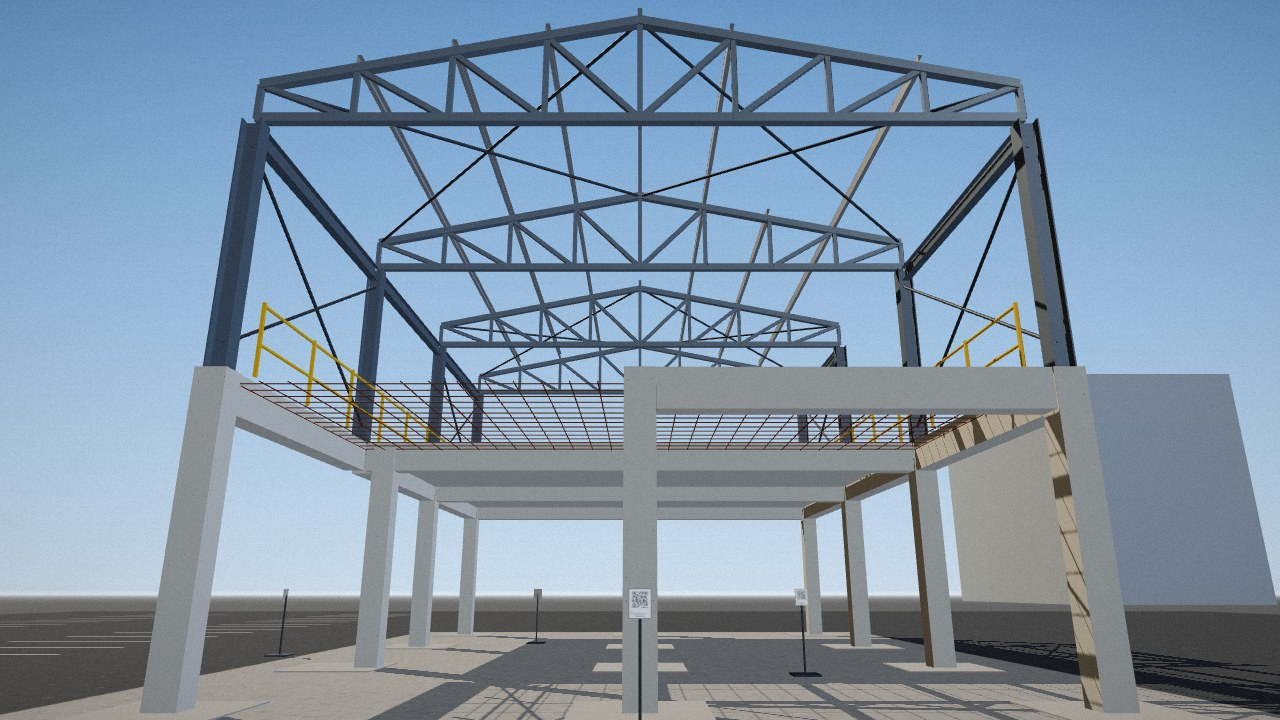
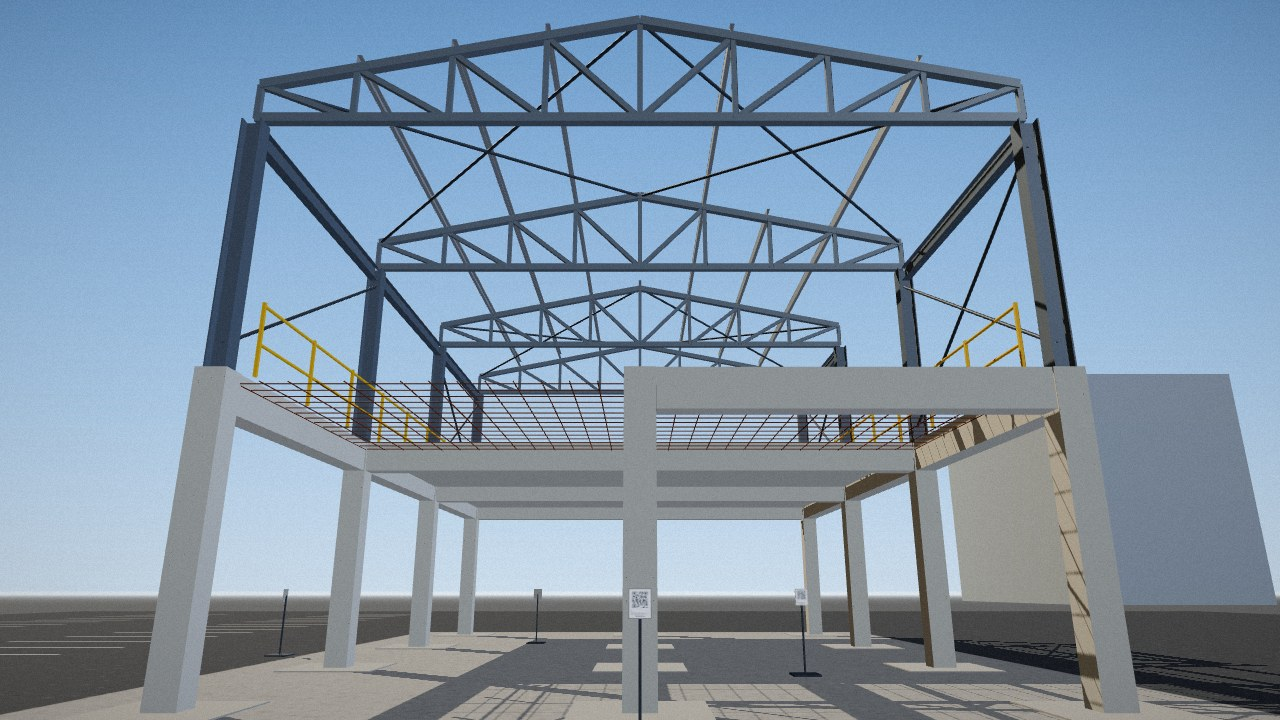
feat(web): the demo scene's ten planted defects are ones its QR spots can show; the cluttered site's things stand around the work
- Two defects a single photo rarely shows (column C1 moved straight away from P1, beam C2-D2 in the slab's shade)
  give way to a wall brace seen from P2 and a purlin in the middle of P4's view.
- The scorecard does not score a defect at a spot that cannot show it (column C2 from P3: only its top is in frame).
- The cluttered site: pallets, props and people stand between the columns' sight lines, not in front of marked
  elements; the towers stand clear of the roof views; plywood lies flat; the tarp covers a pallet.
- The start page no longer carries measured figures: they were for the earlier, harder set.
- The ready-made sample views are re-rendered.

diff --git a/web/src/sim/clutter.ts b/web/src/sim/clutter.ts
@@ -29,29 +29,30 @@ export interface ClutterItem {
  * Otherwise things are where a site would leave them: they may well hide part of an element, as on a real site.
  */
 export const CLUTTER: readonly ClutterItem[] = [
-  // Ground floor, bay B-C between rows 1 and 2: what P1 and P2 look into.
-  { what: 'pallet', at: [7.3, 2.6], r: 0.8, rot: 0.2, n: 0.9 },
-  { what: 'bags', at: [10.8, 3.2], r: 0.6, rot: 0.3 },
-  { what: 'barrow', at: [9.6, 5.2], r: 0.8, rot: 2.2 },
-  { what: 'worker', at: [8.4, 4.0], r: 0.4, rot: 0.6 },
-  ...([[7.5, 1.4], [10.5, 1.4], [7.5, 4.4], [10.5, 4.4], [1.5, 1.5], [4.5, 1.3], [1.5, 4.5], [4.5, 4.7]] as const)
+  // Ground floor, bay B-C between rows 1 and 2: what P1 and P2 look into. Things stand in the open middle of each
+  // opening view, between the columns' sight lines, not in front of an element the check marks.
+  { what: 'pallet', at: [9.6, 3.4], r: 0.8, rot: 0.2, n: 0.9 },
+  { what: 'bags', at: [9.9, 2.0], r: 0.6, rot: 0.3 },
+  { what: 'barrow', at: [9.0, 6.4], r: 0.8, rot: 2.2 },
+  { what: 'worker', at: [8.4, 3.0], r: 0.4, rot: 0.6 },
+  ...([[8.3, 1.6], [8.3, 4.4], [1.5, 1.5], [4.5, 1.3], [1.5, 4.5], [4.5, 4.7]] as const)
     .map(([x, y]): ClutterItem => ({ what: 'prop', at: [x, y], r: 0.15 })),
   { what: 'timber', at: [1.2, 9.0], r: 1.6, rot: 0.05 },
-  // The open bay C-D.
-  { what: 'pallet', at: [15.6, 2.4], r: 0.8, rot: -0.15, n: 0.7 },
-  { what: 'mixer', at: [14.2, 4.6], r: 0.8, rot: 0.5 },
-  { what: 'rebar', at: [15.4, 0.9], r: 0.5 },
-  { what: 'cage', at: [16.9, 7.2], r: 0.4 },
-  // Outside: cones by the south entrance, tape posts across the open bay, a scaffold tower on the east side.
-  { what: 'cone', at: [7.2, -1.3], r: 0.2 },
-  { what: 'cone', at: [10.8, -1.3], r: 0.2 },
+  // The open bay C-D: down its middle strip.
+  { what: 'pallet', at: [15.8, 2.3], r: 0.8, rot: -0.15, n: 0.7 },
+  { what: 'mixer', at: [13.6, 3.6], r: 0.8, rot: 0.5 },
+  { what: 'rebar', at: [16.0, 4.4], r: 0.5 },
+  { what: 'cage', at: [13.2, 10.6], r: 0.4 },
+  // Outside: cones by the south entrance, tape posts across the open bay, a scaffold tower at the north-east corner.
+  { what: 'cone', at: [8.0, -1.6], r: 0.2 },
+  { what: 'cone', at: [10.0, -1.6], r: 0.2 },
   { what: 'cone', at: [13.3, 5.6], r: 0.2 },
   { what: 'post', at: [12.4, -0.5], r: 0.1 },
   { what: 'post', at: [17.6, -0.5], r: 0.1 },
-  { what: 'tower', at: [19.3, 8.8], r: 1.2, n: 3 },
-  // Up on the level 1 slab: a short tower for the steel fixers, with someone on it.
-  { what: 'tower', at: [10.6, 9.5], r: 1.1, z: 4.5, n: 1 },
-  { what: 'worker', at: [10.6, 9.3], r: 0.4, z: 6.56, rot: 1.6 },
+  { what: 'tower', at: [19.3, 11.6], r: 1.2, n: 3 },
+  // Up on the level 1 slab, back from its edge: a short tower for the steel fixers, with someone on it.
+  { what: 'tower', at: [7.5, 9.5], r: 1.1, z: 4.5, n: 1 },
+  { what: 'worker', at: [7.5, 9.3], r: 0.4, z: 6.56, rot: 1.6 },
 ]
 
 const UP_Y = new Vector3(0, 1, 0)
@@ -309,29 +310,24 @@ export function addClutter(scene: Object3D, deviations: readonly Deviation[] = S
       for (let layer = 0; layer < 3; layer++) {
         for (let i = 0; i < 4; i++) box(g, 0.2, 3, 0.05, M.timber, -0.33 + i * 0.22, (rand() - 0.5) * 0.3, layer * 0.055, (rand() - 0.5) * 0.03)
       }
-      // A few sheets of plywood leaning on column B3.
-      for (let i = 0; i < 3; i++) {
-        const sheet = shade(new Mesh(new BoxGeometry(1.22, 0.018, 2.44), M.ply))
-        sheet.rotation.x = -0.22
-        sheet.position.set(6 + i * 0.05, 11.49 - i * 0.03, 1.19)
-        root.add(sheet)
-      }
+      // A few sheets of plywood stacked flat beside the timber.
+      for (let i = 0; i < 4; i++) box(g, 1.22, 2.44, 0.018, M.ply, 1.5 + (rand() - 0.5) * 0.06, (rand() - 0.5) * 0.1, i * 0.02)
     },
     rebar: ({ at: [x, y] }) => {
       for (const s of [-1.5, 1.5]) box(root, 0.1, 0.6, 0.08, M.timber, x + s, y, 0)
       for (let i = 0; i < 14; i++) {
         const dy = (rand() - 0.5) * 0.3
         const h = 0.095 + rand() * 0.07
-        tube(root, [x - 2.5 + rand() * 0.2, y + dy, h], [x + 2.5 + rand() * 0.2, y + dy, h], 0.012, M.rebar)
+        tube(root, [x - 2 + rand() * 0.2, y + dy, h], [x + 2 + rand() * 0.2, y + dy, h], 0.012, M.rebar)
       }
     },
-    // A spare column cage lying on bearers, running north from `at`.
+    // A spare column cage lying on bearers, running east from `at`.
     cage: ({ at: [x, y] }) => {
       const [len, half, z0] = [4, 0.16, 0.1]
-      for (const s of [0.6, 3.4]) box(root, 0.7, 0.1, 0.08, M.timber, x, y + s, 0)
-      for (const sx of [-half, half]) for (const sz of [0, half * 2]) tube(root, [x + sx, y, z0 + sz], [x + sx, y + len, z0 + sz], 0.012, M.rebar)
+      for (const s of [0.6, 3.4]) box(root, 0.1, 0.7, 0.08, M.timber, x + s, y, 0)
+      for (const sy of [-half, half]) for (const sz of [0, half * 2]) tube(root, [x, y + sy, z0 + sz], [x + len, y + sy, z0 + sz], 0.012, M.rebar)
       for (let t = 0.1; t < len; t += 0.3) {
-        const corners: V3[] = [[x - half, y + t, z0], [x + half, y + t, z0], [x + half, y + t, z0 + half * 2], [x - half, y + t, z0 + half * 2]]
+        const corners: V3[] = [[x + t, y - half, z0], [x + t, y + half, z0], [x + t, y + half, z0 + half * 2], [x + t, y - half, z0 + half * 2]]
         corners.forEach((c, i) => tube(root, c, corners[(i + 1) % 4], 0.006, M.rebar))
       }
     },
@@ -360,7 +356,7 @@ export function addClutter(scene: Object3D, deviations: readonly Deviation[] = S
     root.add(shade(ribbon))
   }
 
-  // A safety banner tied between columns D1 and D2, and a tarp hung over the slab edge on line C.
+  // A safety banner tied between columns D1 and D2.
   const banner = shade(new Mesh(new PlaneGeometry(2.6, 1), new MeshStandardMaterial({ map: bannerTexture(), roughness: 0.8 })))
   banner.quaternion.setFromRotationMatrix(new Matrix4().makeBasis(new Vector3(0, 1, 0), UP_Z, new Vector3(1, 0, 0)))
   banner.position.set(18.24, 3, 2.8)
@@ -372,11 +368,7 @@ export function addClutter(scene: Object3D, deviations: readonly Deviation[] = S
     tube(root, [18.24, 1.7, z], [18.2, 0.23, z], 0.004, M.dark)
     tube(root, [18.24, 4.3, z], [18.2, 5.77, z], 0.004, M.dark)
   }
-  const tarp = shade(new Mesh(new PlaneGeometry(1.4, 1), M.tarp))
-  tarp.quaternion.copy(banner.quaternion)
-  tarp.position.set(12.03, 7.6, 4)
-  root.add(tarp)
-  box(root, 0.5, 1.4, 0.012, M.tarp, 11.78, 7.6, 4.5)
+  box(root, 1.3, 1.1, 0.02, M.tarp, 15.8, 2.3, 0.85, -0.15) // a tarp over the open bay's pallet
 
   // Stains on the ground and under the slab.
   const [oil, slurry, damp, rust] = ['24,22,20', '196,192,182', '52,50,46', '120,62,28']

diff --git a/web/src/sim/asBuilt.ts b/web/src/sim/asBuilt.ts
@@ -9,28 +9,34 @@ export type ViewpointId = 'P1' | 'P2' | 'P3' | 'P4'
  * One deviation of the as-built from the design; `featuredAt` is the QR spot whose opening view shows it. A shifted
  * concrete column takes its rebar cage with it (`alsoMoves`), as it would on site.
  */
-export type Deviation =
+export type Deviation = (
   | { element: string; kind: 'missing'; note?: string; featuredAt: ViewpointId }
   | { element: string; kind: 'shifted'; offsetM: [number, number, number]; alsoMoves?: string[]; featuredAt: ViewpointId }
+) & {
+  /** QR spots where too little of the element is in frame to judge it: its check there is not scored. */
+  notShownAt?: ViewpointId[]
+}
 
 /**
  * Realistic site defects, each big enough for a camera to resolve from its QR spot (thin bracing far away is not):
  * an uncast column, setting-out errors, the open bay's beams not cast, steel not erected, a missing guardrail.
  * Each spot opens with two or three of them in view (asBuilt.test.ts checks the framing).
+ * They are a demo scene, chosen to be visible from the QR spots: two earlier ones (a column moved straight away from P1,
+ * which one photo cannot show, and a beam in the slab's shade) went on 28 Nov. The harder set stays in our test logs.
  * The stands sit on grid lines, so a purlin or truss member in line with the stand hides behind a slab-mat bar:
  * choose members off that line (measured in the check's ID buffer: every one here gets a numbered mark).
  */
 export const SITE_AS_BUILT: readonly Deviation[] = [
-  { element: 'RC column C2', kind: 'missing', note: 'not cast yet: only its rebar cage stands', featuredAt: 'P1' },
+  { element: 'RC column C2', kind: 'missing', note: 'not cast yet: only its rebar cage stands', featuredAt: 'P1', notShownAt: ['P3'] },
   { element: 'RC column B2', kind: 'shifted', offsetM: [-0.6, 0, 0], alsoMoves: ['Column cage B2'], featuredAt: 'P1' },
-  { element: 'RC column C1', kind: 'shifted', offsetM: [0, 0.6, 0], alsoMoves: ['Column cage C1'], featuredAt: 'P2' },
-  { element: 'Beam C2-D2', kind: 'missing', note: 'not cast yet: the open bay is still to pour', featuredAt: 'P2' },
   { element: 'Beam D1-D2', kind: 'missing', note: 'not cast yet: the open bay is still to pour', featuredAt: 'P2' },
+  { element: 'Brace wall south C-D (1)', kind: 'missing', note: 'not installed yet', featuredAt: 'P2' },
   { element: 'Truss T3 diagonal 6', kind: 'missing', featuredAt: 'P3' },
   { element: 'Purlin P4 B-C', kind: 'missing', featuredAt: 'P3' },
   { element: 'Edge beam B3-C3', kind: 'missing', note: 'not erected yet', featuredAt: 'P3' },
   { element: 'Edge protection east', kind: 'missing', note: 'missing (a fall hazard at level 1)', featuredAt: 'P4' },
   { element: 'Purlin P6 C-D', kind: 'missing', featuredAt: 'P4' },
+  { element: 'Purlin P4 C-D', kind: 'missing', featuredAt: 'P4' },
 ]
 
 /** Compass word for a plan offset (IFC x east, y north, z up). */

diff --git a/web/src/sim/score.ts b/web/src/sim/score.ts
@@ -4,7 +4,7 @@
  */
 import type { Finding } from '../api/types'
 import { MAX_MARKS } from '../check/marks'
-import type { Deviation } from './asBuilt'
+import type { Deviation, ViewpointId } from './asBuilt'
 
 const DEVIATIONS = new Set<Finding['status']>(['missing', 'misplaced', 'different_from_design'])
 
@@ -23,10 +23,12 @@ export type Score = {
 /** The elements a planted defect changed: the element, plus what moved with it (a shifted column's cage). */
 const touched = (d: Deviation): string[] => [d.element, ...(d.kind === 'shifted' ? d.alsoMoves ?? [] : [])]
 
-export function scoreCheck(findings: readonly Finding[], planted: readonly Deviation[]): Score {
+/** `at`: the QR spot the check was made from. A defect that spot cannot show (`notShownAt`) is not scored there. */
+export function scoreCheck(findings: readonly Finding[], planted: readonly Deviation[], at?: ViewpointId): Score {
   const byName = new Map(findings.map((f) => [f.name, f]))
   const plantedNames = new Set(planted.flatMap(touched))
-  const inView = planted.filter((d) => byName.has(d.element)).map((d) => {
+  const shown = (d: Deviation) => byName.has(d.element) && !(at && d.notShownAt?.includes(at))
+  const inView = planted.filter(shown).map((d) => {
     const finding = byName.get(d.element)!
     const flagged = touched(d).some((n) => DEVIATIONS.has(byName.get(n)?.status ?? 'present_ok'))
     return { planted: d, finding, found: flagged }
@@ -34,7 +36,7 @@ export function scoreCheck(findings: readonly Finding[], planted: readonly Devia
   return {
     inView,
     falseAlarms: findings.filter((f) => DEVIATIONS.has(f.status) && !plantedNames.has(f.name)),
-    notChecked: planted.filter((d) => !byName.has(d.element)),
+    notChecked: planted.filter((d) => !shown(d)),
   }
 }
 

diff --git a/web/src/ui/VirtualSite.tsx b/web/src/ui/VirtualSite.tsx
@@ -528,7 +528,7 @@ export function VirtualSite({ viewpointId, clutter = false, onExit }: { viewpoin
           renderUrl ??= URL.createObjectURL(render)
           show(w, {
             result: look.result, photoUrl, renderUrl, runId: null, latencyMs: performance.now() - started,
-            score: scoreCheck(look.result.findings, SITE_AS_BUILT), phase: 'first-look', pending: look.pending.length,
+            score: scoreCheck(look.result.findings, SITE_AS_BUILT, vp.id), phase: 'first-look', pending: look.pending.length,
           })
           shownFirstLook = true
         },
@@ -540,7 +540,7 @@ export function VirtualSite({ viewpointId, clutter = false, onExit }: { viewpoin
       const runId = storedRunId(res.response)
       if (runId) setReportRuns(rememberReportRun(PROJECT_ID, reportRuns, { runId, spot: vp.id }))
       show(w, {
-        result, photoUrl, renderUrl, runId, latencyMs: performance.now() - started, score: scoreCheck(result.findings, SITE_AS_BUILT),
+        result, photoUrl, renderUrl, runId, latencyMs: performance.now() - started, score: scoreCheck(result.findings, SITE_AS_BUILT, vp.id),
         phase: 'final', pending: 0,
       })
       saveLastCheck(PROJECT_ID, { result, runId, at: new Date().toISOString() })

diff --git a/web/src/ui/AboutSection.tsx b/web/src/ui/AboutSection.tsx
@@ -61,20 +61,6 @@ export function AboutSection() {
           </ol>
         </div>
 
-        <div className="about-band">
-          <h3 className="about-h3">What we measured</h3>
-          <div className="about-stats about-stats-measured">
-            <p><strong>9 of 10</strong><span>planted mistakes found across the four viewpoints, on average over five full runs (46 of 50)</span></p>
-            <p><strong>0 of 49</strong><span>false alarms were confirmed by a second viewpoint: when two viewpoints agree, the finding holds</span></p>
-            <p><strong>About 20 s</strong><span>for one check: a first look at every marked element, then a close-up second look</span></p>
-          </div>
-          <p className="about-source">
-            Our virtual site: ten planted mistakes, simulated photos, live Gemini on the deployed service, November 2026.
-            On a cluttered copy of the site the same mistakes were found, with more false alarms. Not yet measured on
-            real site photos.
-          </p>
-        </div>
-
         <div className="about-pair">
           <div className="about-panel">
             <h3>Built on Google Cloud</h3>

diff --git a/web/src/sim/score.test.ts b/web/src/sim/score.test.ts
@@ -82,3 +82,14 @@ describe('planted defects the check did not cover (audit C-24)', () => {
     expect(`${text.heading} ${text.note}`).not.toMatch(/elsewhere|out of this view/i)
   })
 })
+
+describe('a defect a spot cannot show', () => {
+  it('is not scored at that spot, and is listed as not checked there', () => {
+    const planted: Deviation[] = [{ element: 'RC column C2', kind: 'missing', featuredAt: 'P1', notShownAt: ['P3'] }]
+    const passed = [{ ...f('RC column C2', 'present_ok') }]
+    expect(scoreCheck(passed, planted, 'P3').inView).toEqual([])
+    expect(scoreCheck(passed, planted, 'P3').notChecked).toHaveLength(1)
+    expect(scoreCheck(passed, planted, 'P1').inView).toHaveLength(1)
+    expect(scoreCheck(passed, planted).inView).toHaveLength(1) // no spot given: scored as before
+  })
+})

diff --git a/web/src/ui/about.css b/web/src/ui/about.css
@@ -25,8 +25,6 @@
 .about-stats p { display: grid; align-content: start; gap: 10px; margin: 0; padding: 22px 22px 24px; border-radius: 16px; background: rgba(255, 106, 19, 0.1); border: 1px solid rgba(255, 106, 19, 0.3); }
 .about-stats strong { color: #ffb27f; font-size: 36px; line-height: 1; letter-spacing: -0.02em; }
 .about-stats span { font-size: 15px; line-height: 1.45; color: #d5e1ec; }
-.about-stats-measured p { background: rgba(122, 160, 255, 0.1); border-color: rgba(122, 160, 255, 0.32); }
-.about-stats-measured strong { color: #b9ccff; font-size: 32px; }
 .about-source { margin: 14px 0 0; color: #9fb3c8; font-size: 13px; line-height: 1.5; }
 
 /* Works with your BIM: four steps */

diff --git a/web/src/ui/HomePage.tsx b/web/src/ui/HomePage.tsx
@@ -282,7 +282,7 @@ export function HomePage() {
           </ul>
           <p className="sim-more">
             <span><strong>Real sites are messy.</strong> The cluttered site has the same four spots, with pallets, props,
-              scaffolding and people in the way. You can also switch Site clutter on inside the demo.</span>
+              scaffolding and people around the work. You can also switch Site clutter on inside the demo.</span>
             <Link to={virtualDemoPathFor('P2', true)} className="btn">Open the cluttered site</Link>
           </p>
         </div>
